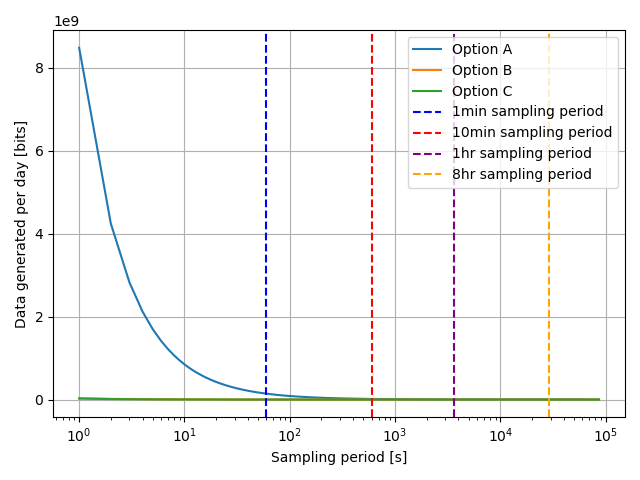
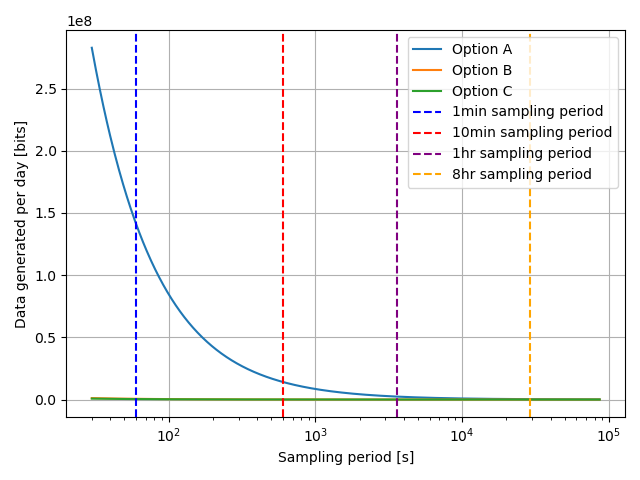
updates people updates

diff --git a/robbetools.py b/robbetools.py
@@ -56,7 +56,7 @@ def ground_station_contact(h: int|float, fov: int|float=180) -> int|float:
 
 def power_usage_sp(T: int|float=3600) -> int|float:
     """
-    This function calculates the power usage of the standardized payload.
+    This function calculates the power usage of the standardized payload for option A.
 
     Accounts for
     ---
@@ -72,11 +72,11 @@ def power_usage_sp(T: int|float=3600) -> int|float:
     ---
     - `p`: Power usage of the standardized payload in [W].
     """
-    pu_snap = 1e-6  # Power usage of a single snapshot [Wh]
-    pu_sleep = 5.3e-6  # Power usage of microcontroller in sleeping mode [W]
-    pu_antenna = 37e-3  # Power usage of antenna [W]
+    pu_snap = 1e-3 # Power usage of a single snapshot [mWh]
+    pu_sleep = 5.3e-3  # Power usage of microcontroller in sleeping mode [mW]
+    pu_antenna = 37  # Power usage of antenna [mW]
 
-    return pu_antenna + pu_sleep + 1/T * pu_snap * 3600
+    return pu_antenna + pu_sleep + pu_snap * 3600 / T
 
 def data_generated(option: str='A') -> int|float:
     """
@@ -142,7 +142,7 @@ if __name__ == "__main__":
     dataAlst = []
     dataBlst = []
     dataClst = []
-    for T in range(1, 24*60*60+1):
+    for T in range(30, 24*60*60+1):
         periodlst.append(T)
         powerlst.append(power_usage_sp(T))
         dataAlst.append(data_generated('A') * 24*60*60/T)
